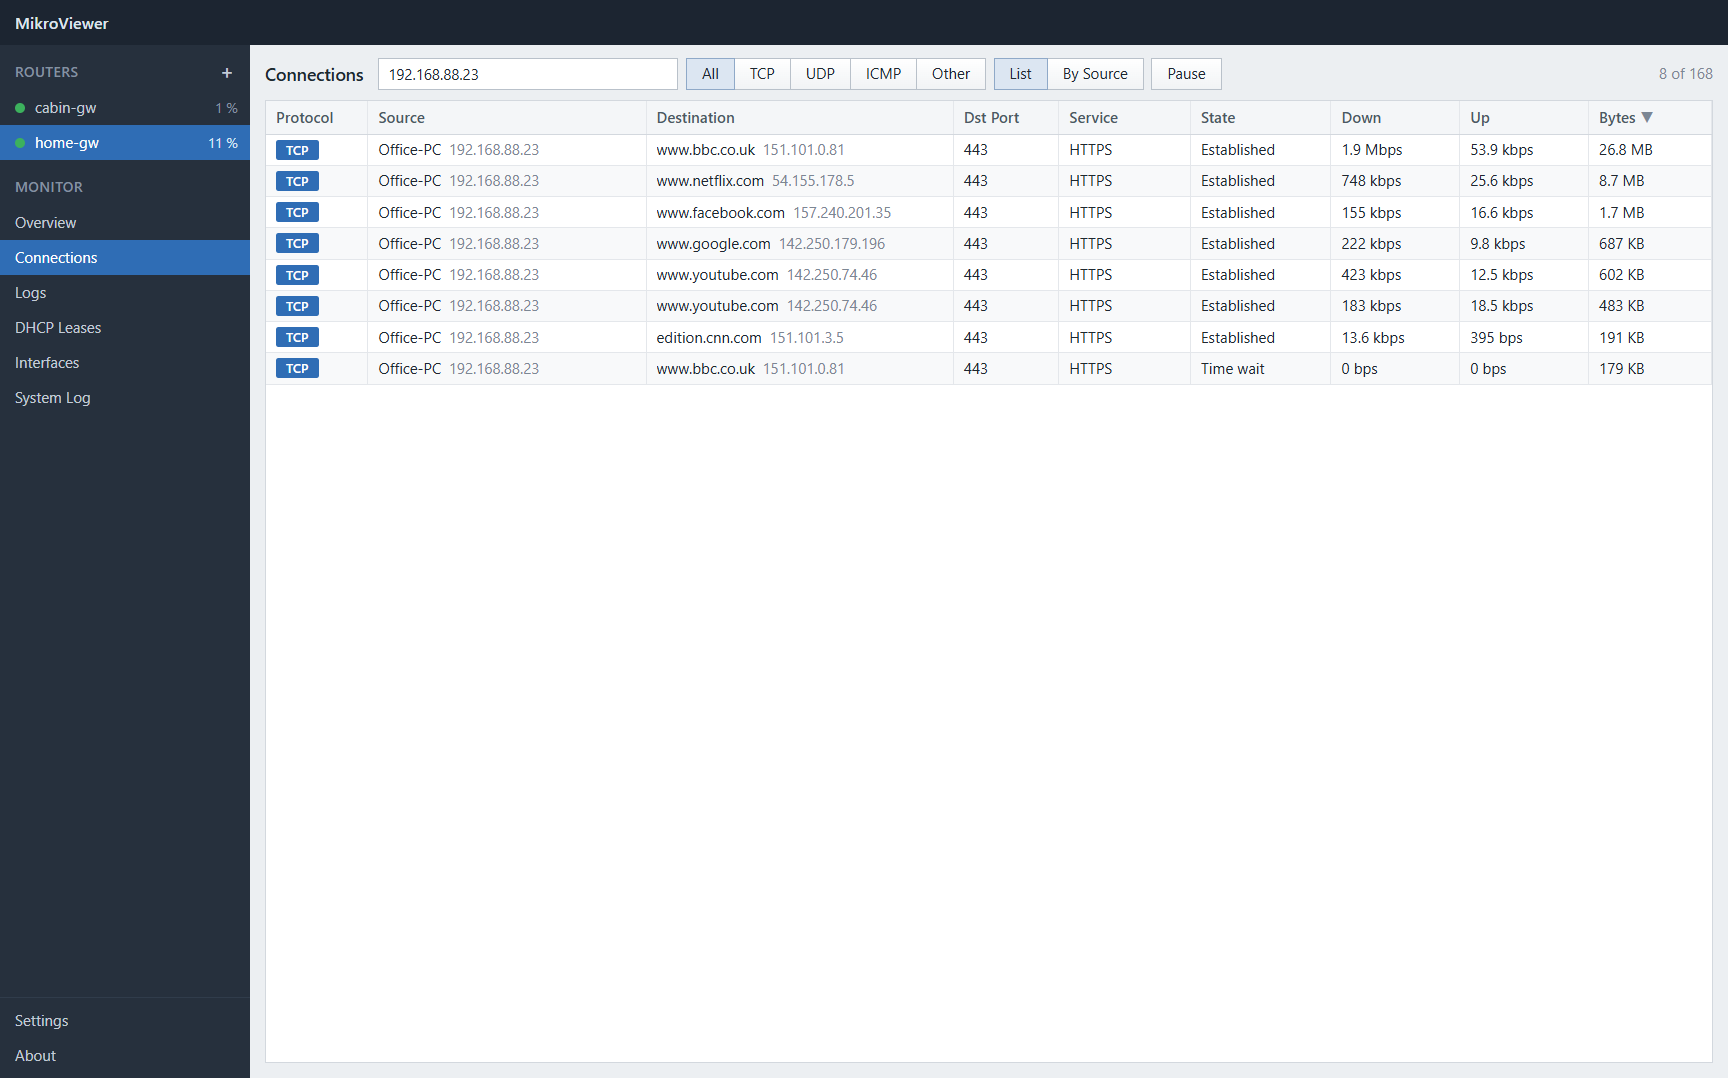
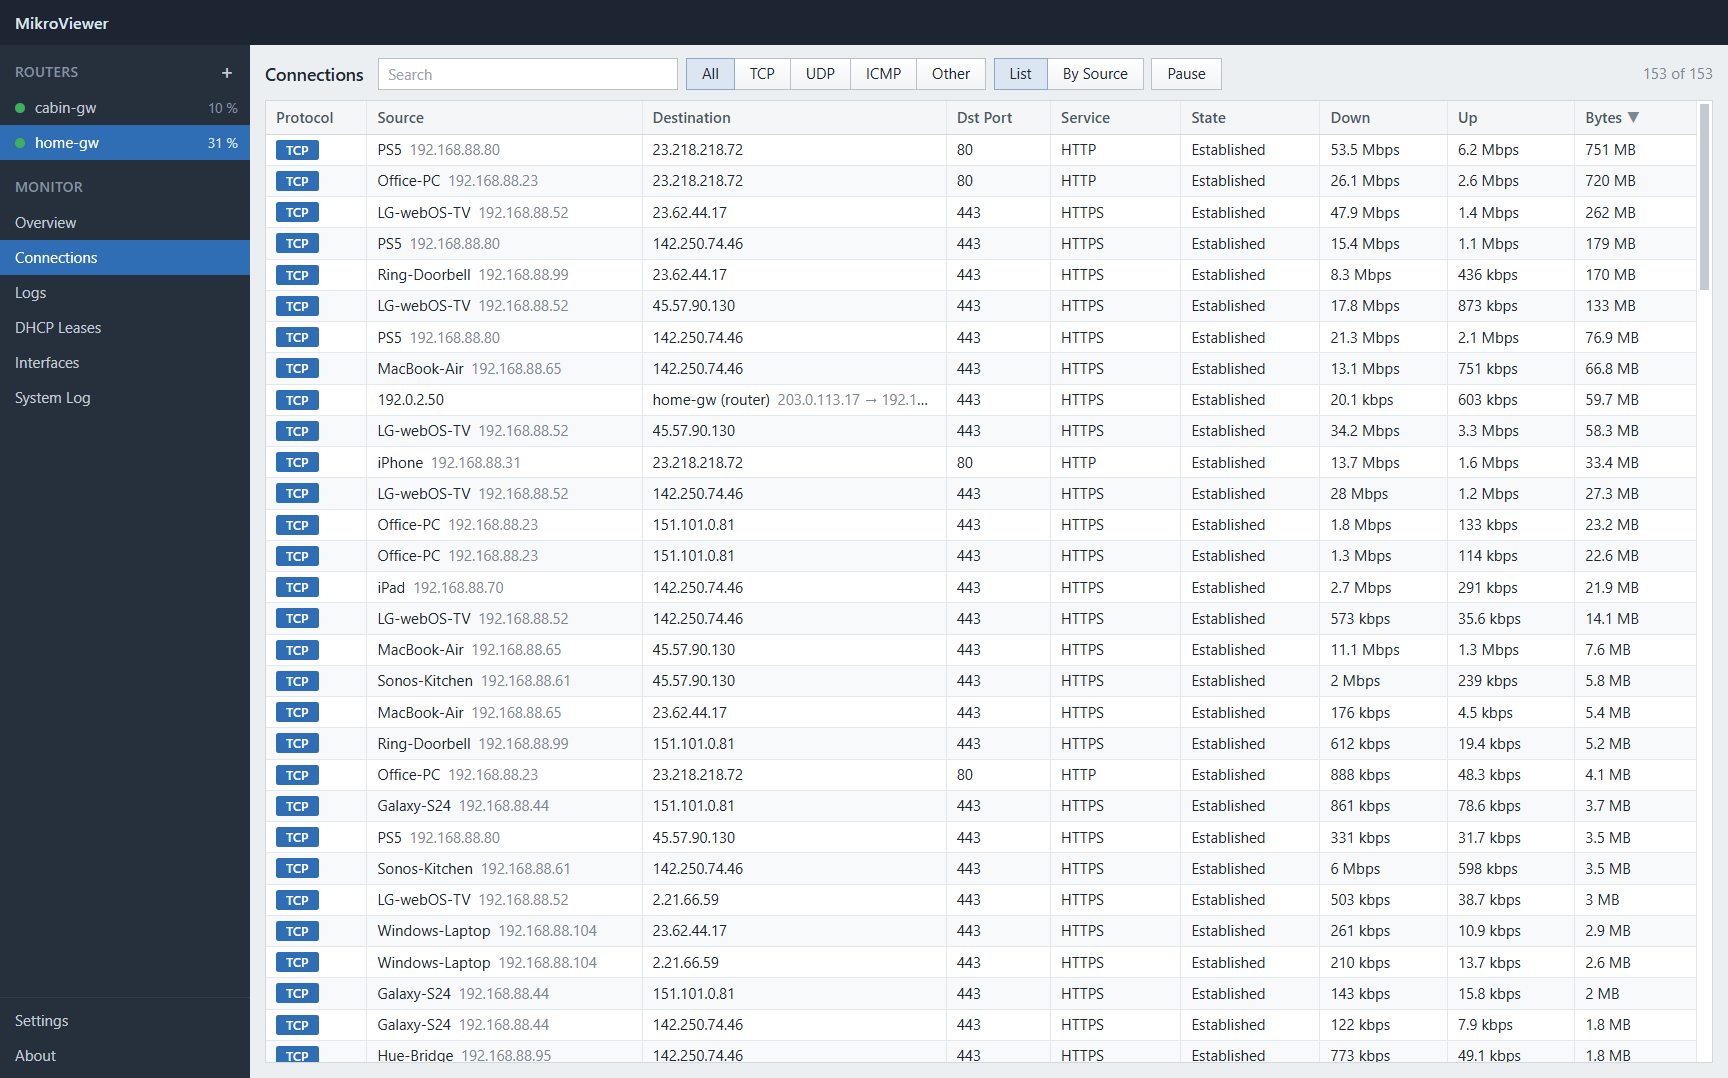
Show screenshots without domain names and explain when names appear
Domain names come from the router's DNS cache, so they only show up when
the devices use the router as their DNS server. The screenshots now show
a network where they don't, and the README says when names are shown.

- Mock router: --no-dns sends the devices' DNS lookups to an outside
  server and leaves the router's DNS cache empty.
- Retook the five README screenshots with --no-dns.

diff --git a/README.md b/README.md
@@ -126,6 +126,7 @@ Terms next to each other must all match. `OR`, `NOT` and parentheses work as usu
 - **Stored logs:** in `%APPDATA%\MikroViewer\logs`, one file per router per hour, kept for 7 days by default (Settings). They contain IP addresses, names and traffic of the devices on the network.
 - **RouterOS versions:** RouterOS 6 and 7, including 7.20 and newer, where the connection table has separate port fields.
 - **Busy routers:** above 20,000 simultaneous connections, only the count is shown, to avoid loading the router.
+- **Domain names** come from the router's DNS cache, so they're only shown when the devices use the router as their DNS server, as in RouterOS' default configuration. Devices that ask another DNS server show IP addresses only. Device names come from DHCP leases.
 - **IPv4 only:** connections are read from the IPv4 connection tracking table.
 - **Router profiles:** saved in `%APPDATA%\MikroViewer\routers.json`. Passwords are encrypted with Windows' own encryption (DPAPI).
 
@@ -155,7 +156,7 @@ The project includes a simulated router with realistic data, firewall rules and 
 npm run mock
 ```
 
-Then add a router with address `127.0.0.1`, port `8728`, user `admin` and password `admin`. `--ros719` or `--ros6` simulates older RouterOS versions (ports inside the address fields).
+Then add a router with address `127.0.0.1`, port `8728`, user `admin` and password `admin`. `--ros719` or `--ros6` simulates older RouterOS versions (ports inside the address fields). `--no-dns` lets the devices use an outside DNS server, so no domain names are shown, as in the screenshots.
 
 ### Publishing an update
 
